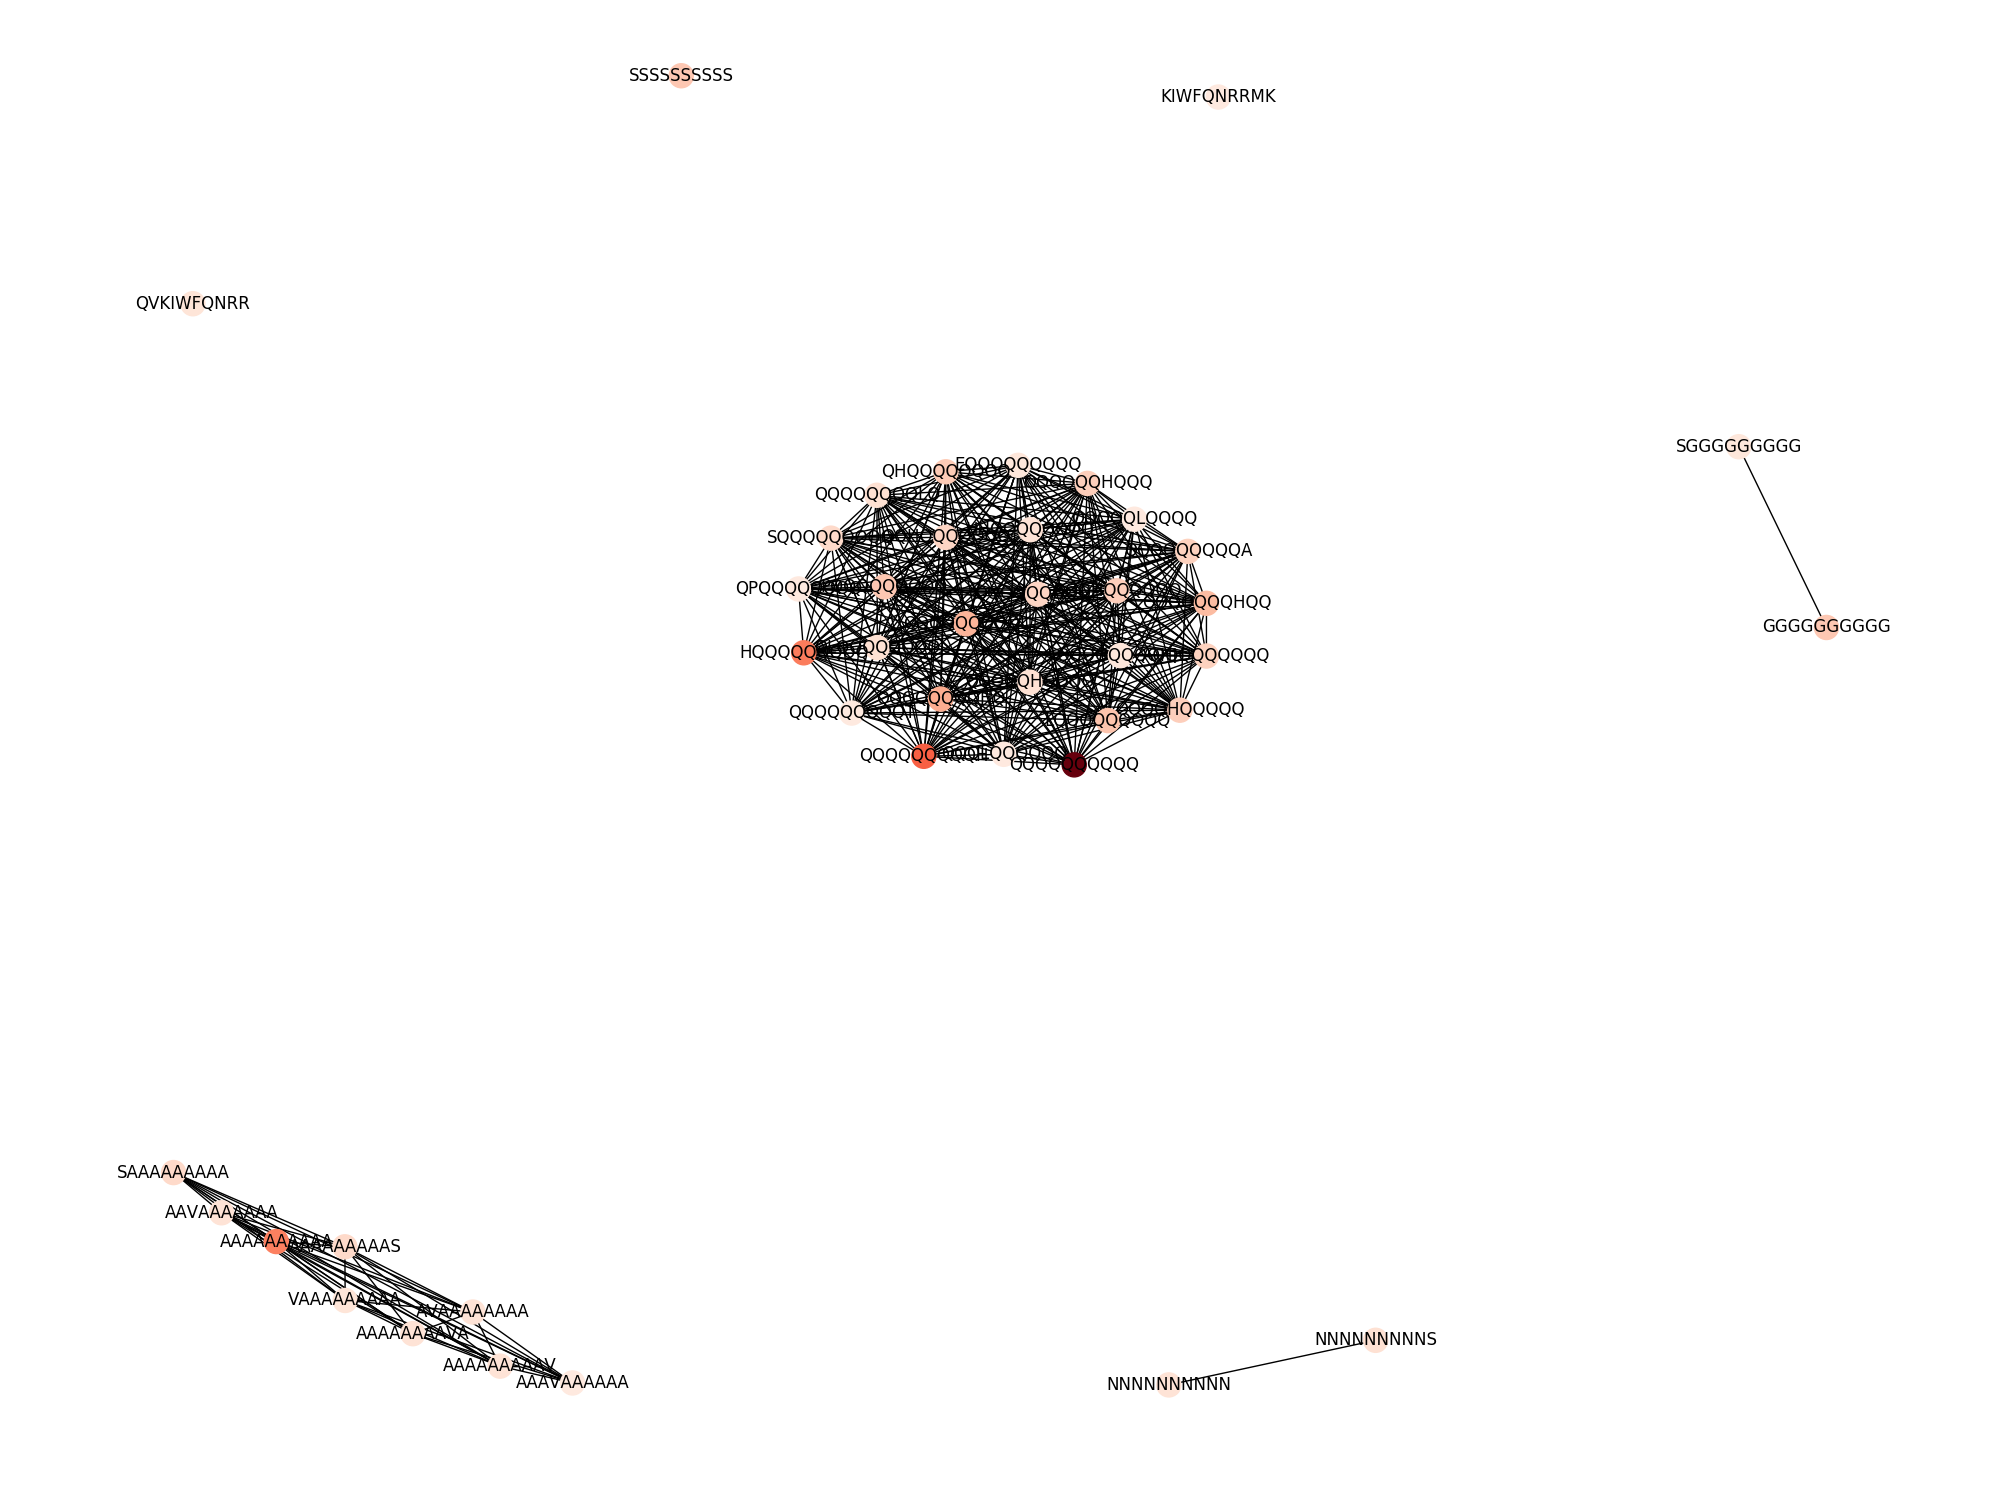
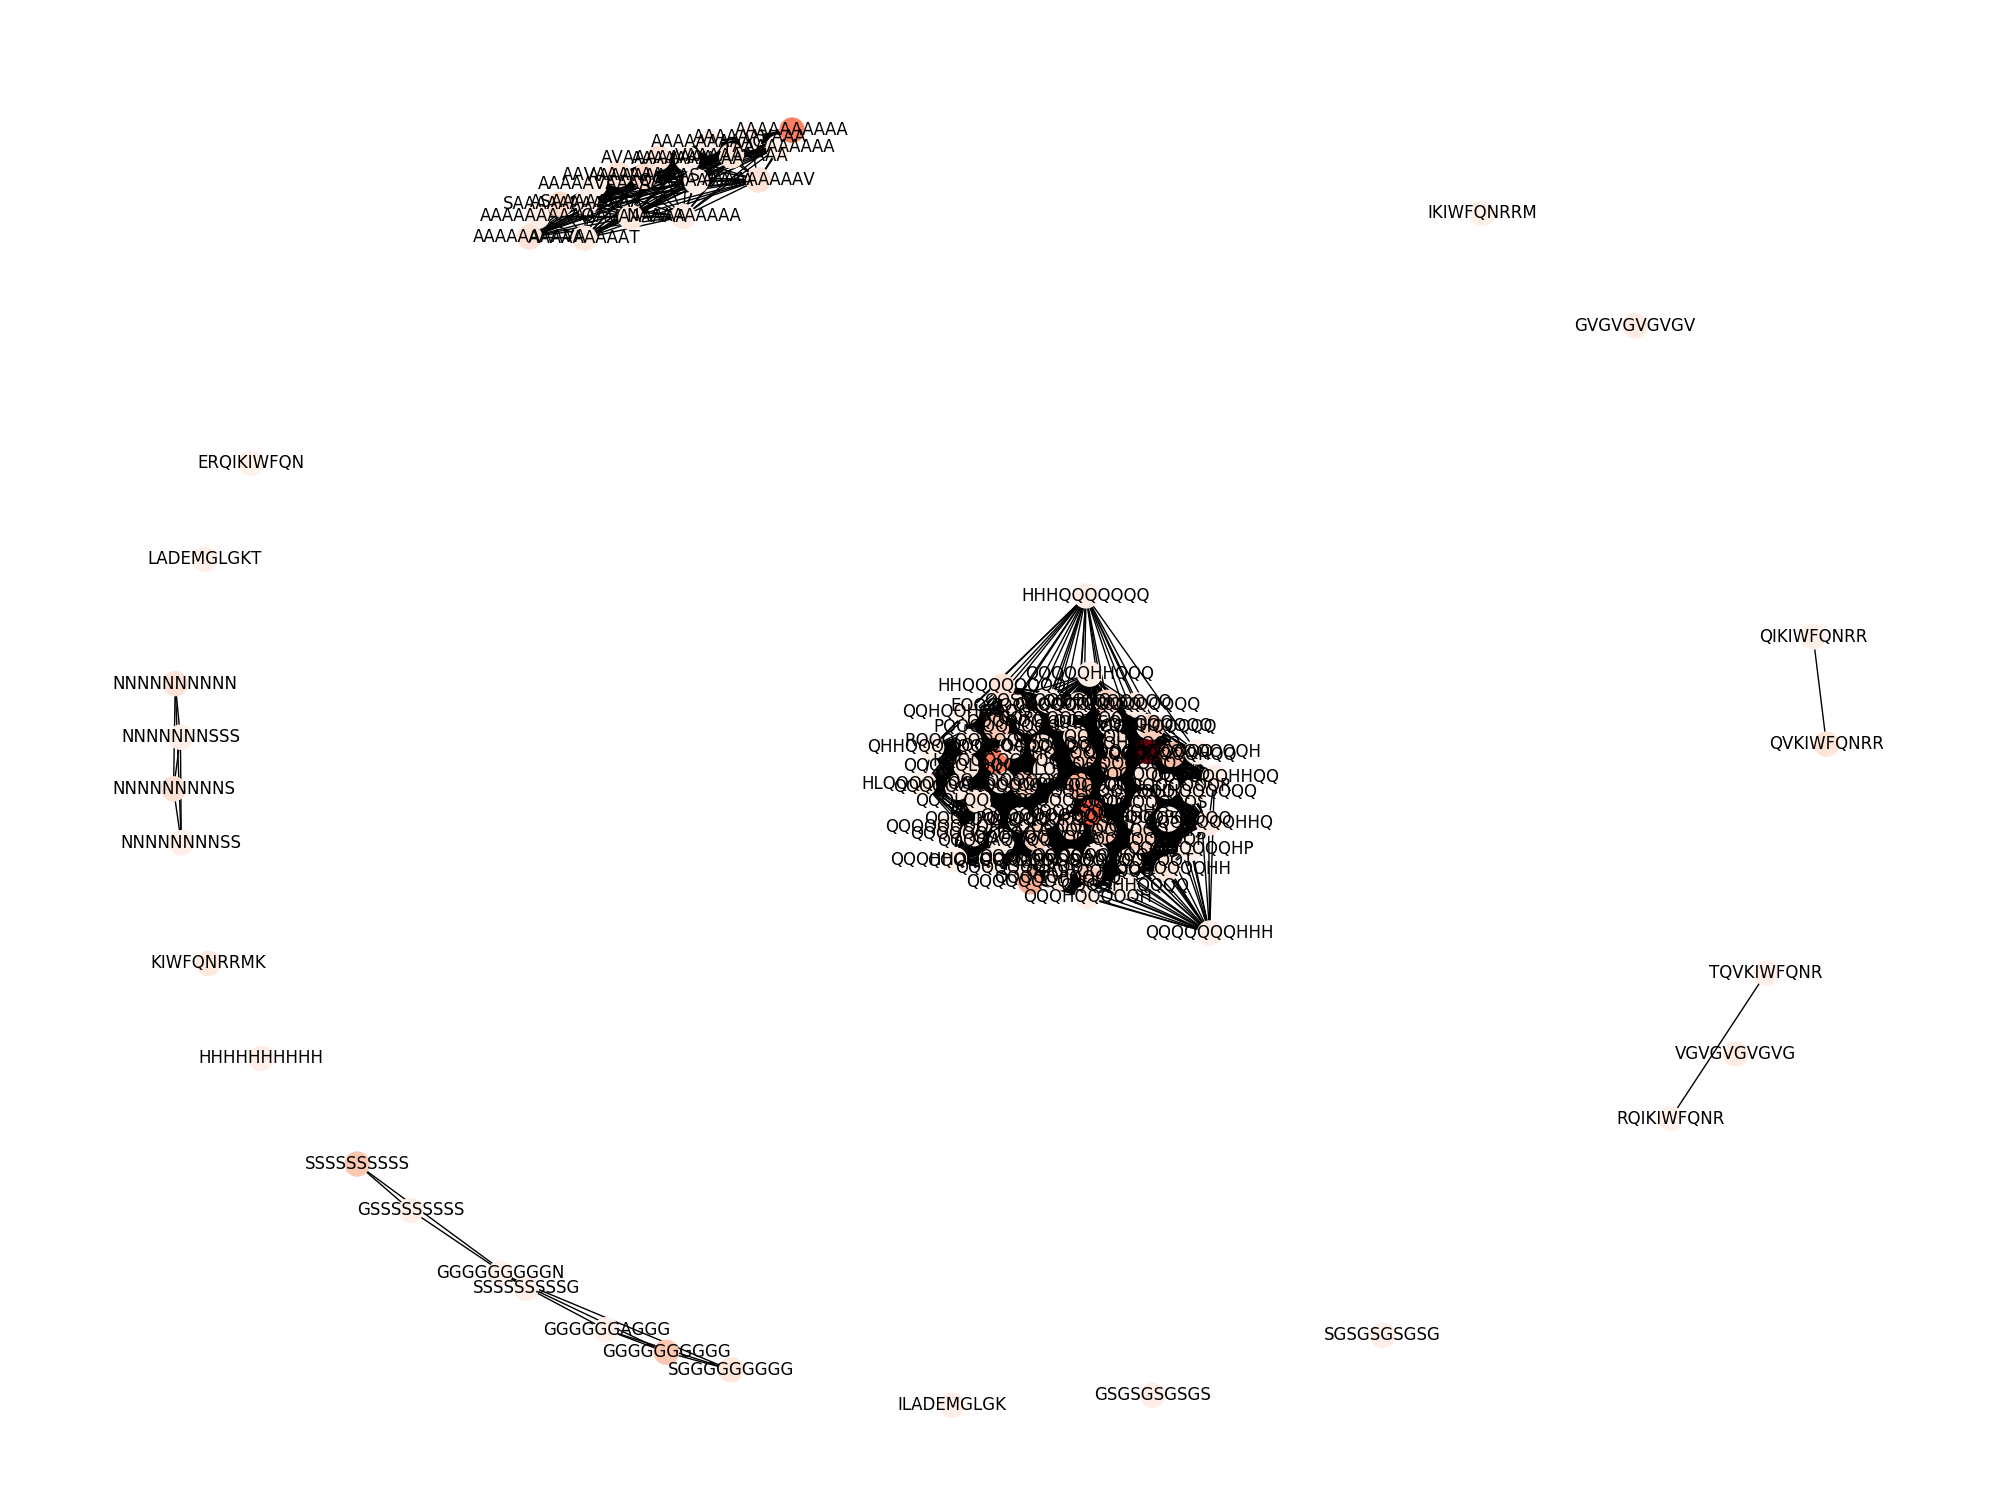
Updated kmer graphs

diff --git a/params.py b/params.py
@@ -1,9 +1,9 @@
 #Organism name
 #ORGANISM = 'Homo Sapiens'
-ORGANISM = 'Mus Musculus'
+#ORGANISM = 'Mus Musculus'
 #ORGANISM = 'Drosophila Melanogaster'
 #ORGANISM = 'Danio Rerio'
-#ORGANISM = 'Caenorhabditis Elegans'
+ORGANISM = 'Caenorhabditis Elegans'
 
 OUTPUT_DIR = ORGANISM
 
@@ -18,14 +18,20 @@ MIN_DIST_BETWEEN_REPETITIONS = K # this means non-overlapping
 # For graph drawing
 SHOULD_SAVEFIG = True
 MIN_HAM_DIST = 3
+
 if ORGANISM == 'Homo Sapiens':
     FREQUENT_KMERS = 'outputs/Homo Sapiens/frequent k10-mers - 2018-02-20-132439.csv'
+    MIN_PROTEINS_FOR_KMER_GRAPH = 10
 elif ORGANISM == 'Mus Musculus':
     FREQUENT_KMERS = 'outputs/Mus Musculus/frequent k10-mers - 2018-03-10-155410.csv'
+    MIN_PROTEINS_FOR_KMER_GRAPH = 8
 elif ORGANISM == 'Drosophila Melanogaster':
     FREQUENT_KMERS = 'outputs/Drosophila Melanogaster/frequent k10-mers - 2018-03-10-151806.csv'
+    MIN_PROTEINS_FOR_KMER_GRAPH = 6
 elif ORGANISM == 'Danio Rerio':
     FREQUENT_KMERS = 'outputs/Danio Rerio/frequent k10-mers - 2018-03-10-160131.csv'
+    MIN_PROTEINS_FOR_KMER_GRAPH = 4
 elif ORGANISM == 'Caenorhabditis Elegans':
     FREQUENT_KMERS = 'outputs/Caenorhabditis Elegans/frequent k10-mers - 2018-03-10-155559.csv'
+    MIN_PROTEINS_FOR_KMER_GRAPH = 4
 

diff --git a/main2_kmer_graph_drawing.py b/main2_kmer_graph_drawing.py
@@ -21,7 +21,7 @@ with open(params.FREQUENT_KMERS, 'rb') as kmercsv:
         kmer, gene_count, genes = row
         gene_count = int(gene_count)
         genes = ast.literal_eval(genes)
-        if gene_count >= 10:
+        if gene_count >= params.MIN_PROTEINS_FOR_KMER_GRAPH:
             kmers.append(Kmer(kmer, gene_count, genes))
             gene_count_dict[kmer] = gene_count
 
